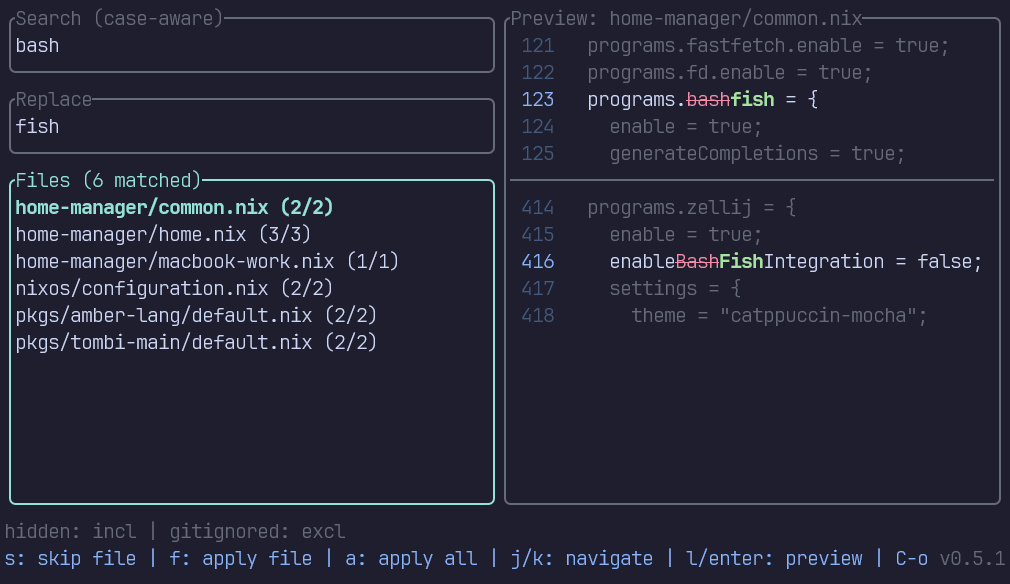
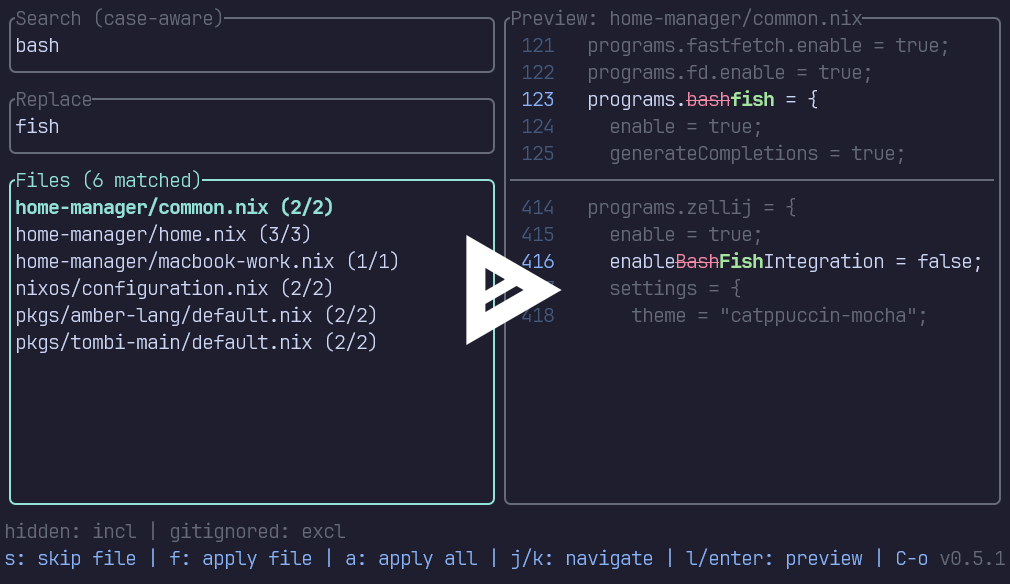
feat: rename gitignore setting (#35)

Changed region(s): [[0.4604, 0.4007, 0.5525, 0.5856]]

diff --git a/src/ui.rs b/src/ui.rs
@@ -154,7 +154,7 @@ fn render_options_modal(app: &App, frame: &mut Frame, area: Rect) {
     let rows: [(&str, &str, &str); 3] = [
         ("r", "Search mode  ", match_mode.as_str()),
         ("h", "Hidden files ", hidden),
-        ("g", "Gitignored   ", gitignored),
+        ("g", ".gitignore   ", gitignored),
     ];
 
     let row_width = rows
@@ -186,7 +186,7 @@ fn render_options_modal(app: &App, frame: &mut Frame, area: Rect) {
         .iter()
         .map(|(key, name, val)| {
             Line::from(vec![
-                Span::styled(format!(" [{key}]"), Style::default().fg(Color::Blue)),
+                Span::styled(format!(" {key} "), Style::default().fg(Color::Blue)),
                 Span::raw(format!(" {name} ")),
                 Span::styled(*val, Style::default().fg(Color::Cyan)),
             ])
@@ -209,7 +209,7 @@ fn render_options_strip(app: &App, frame: &mut Frame, area: Rect) {
         "excl"
     };
     let line = Line::from(vec![Span::styled(
-        format!("hidden: {hidden} | gitignored: {gitignored}"),
+        format!("hidden: {hidden} | .gitignore: {gitignored}"),
         Style::default().dim(),
     )]);
     frame.render_widget(line, area);

diff --git a/README.md b/README.md
@@ -1,6 +1,6 @@
 # swpui
 
-![swpui screenshot](https://raw.githubusercontent.com/beeb/swpui/refs/heads/main/screenshot.png)
+<a href="https://asciinema.org/a/F3Md92sdwyqgvOgZ"><img alt="swpui screencast" src="https://raw.githubusercontent.com/beeb/swpui/refs/heads/main/screenshot.png" /></a>
 
 <div align="center">
   <a href="https://github.com/beeb/swpui"><img